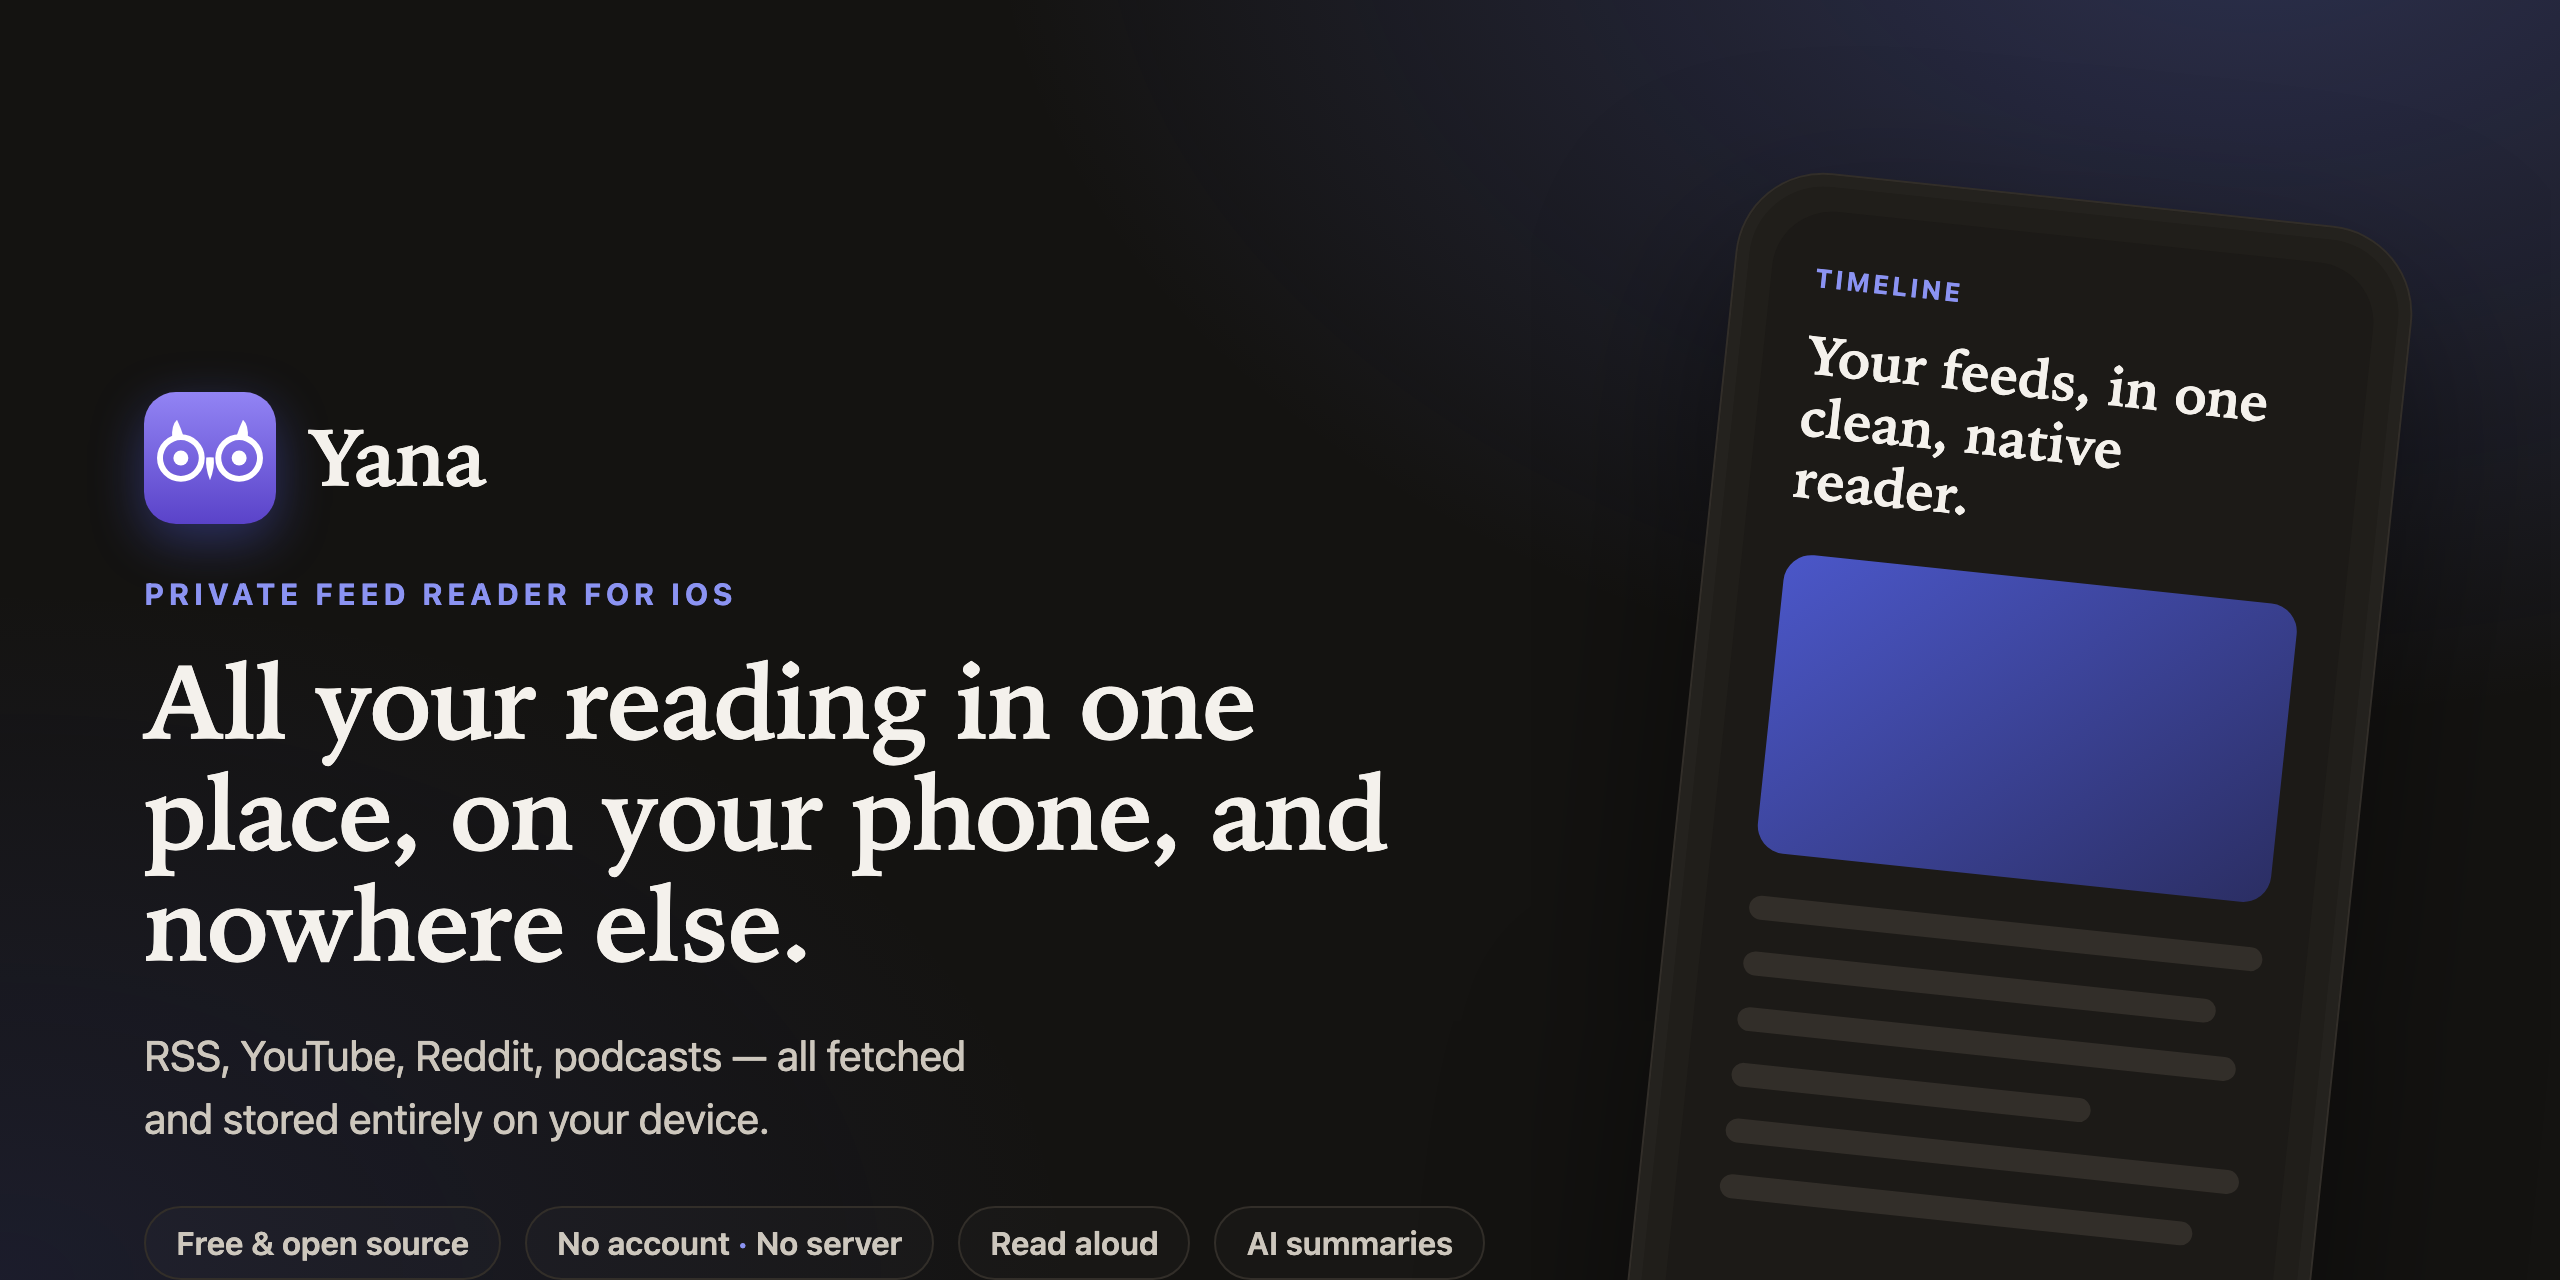
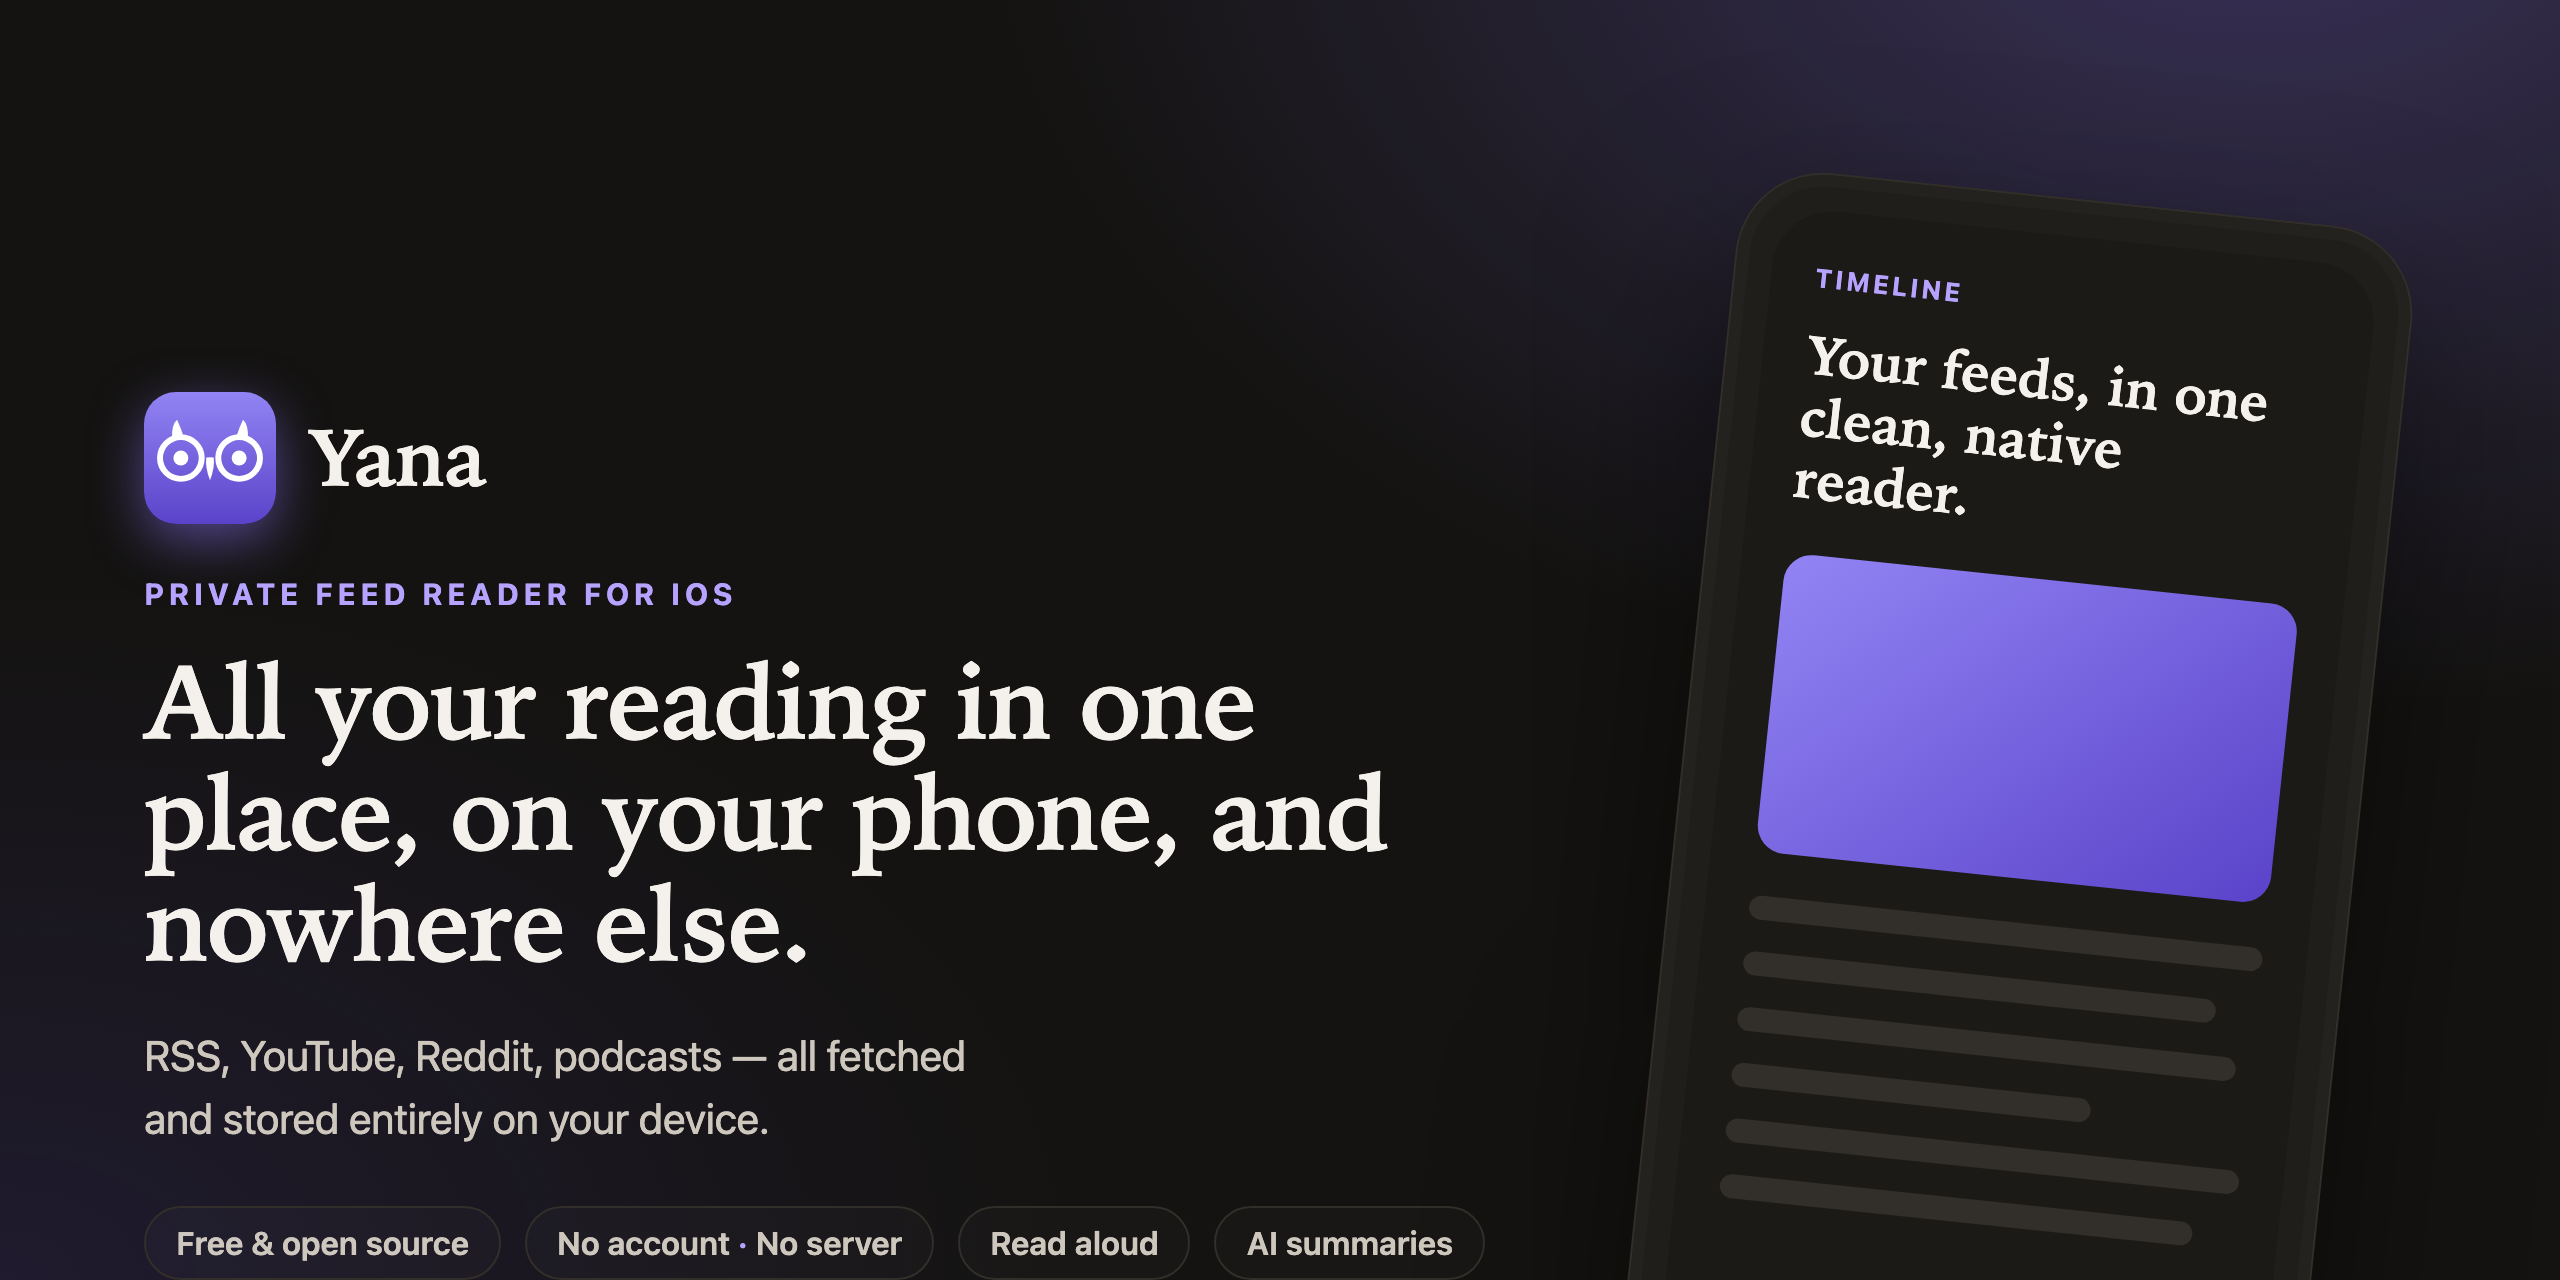
Match site accent to the app's AccentColor (periwinkle purple)
Retune the accent tokens to the app's AccentColor (#8f78ff light / #b5a3ff
dark), route link text through the darker readable shade, and regenerate the
social preview card with the same purple.

Changed region(s): [[0.6875, 0.4375, 0.9062, 0.7188], [0.0625, 0.4375, 0.2812, 0.4688], [0.7188, 0.2188, 0.7812, 0.25]]

diff --git a/docs/site/assets/styles.css b/docs/site/assets/styles.css
@@ -8,9 +8,9 @@
   --ink-soft: #4b4741;
   --muted: #7b756c;
   --line: #e7e2da;
-  --accent: #4b57c9;
-  --accent-soft: #ecedfb;
-  --accent-ink: #333c8f;
+  --accent: #8f78ff;
+  --accent-soft: #efeaff;
+  --accent-ink: #5b45c9;
   --radius: 16px;
   --radius-lg: 24px;
   --maxw: 1080px;
@@ -29,9 +29,9 @@
     --ink-soft: #cdc7bd;
     --muted: #9a938a;
     --line: #322e29;
-    --accent: #9aa2f5;
-    --accent-soft: #23243a;
-    --accent-ink: #c5cbff;
+    --accent: #b5a3ff;
+    --accent-soft: #262138;
+    --accent-ink: #c9bcff;
     --shadow: 0 1px 2px rgba(0, 0, 0, 0.3), 0 10px 30px rgba(0, 0, 0, 0.35);
   }
 }
@@ -102,7 +102,7 @@ p {
 }
 
 a {
-  color: var(--accent);
+  color: var(--accent-ink);
   text-decoration: none;
 }
 